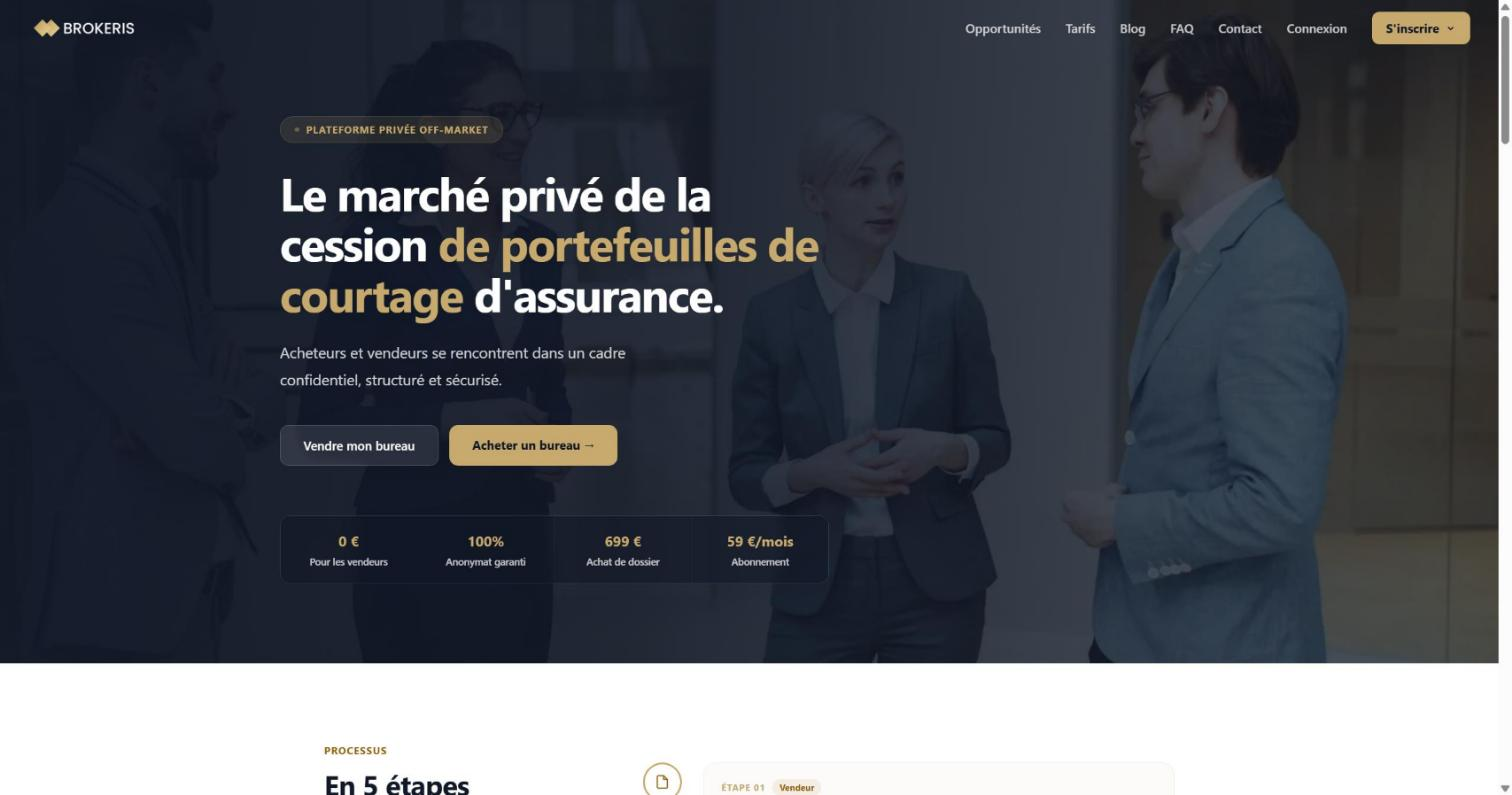
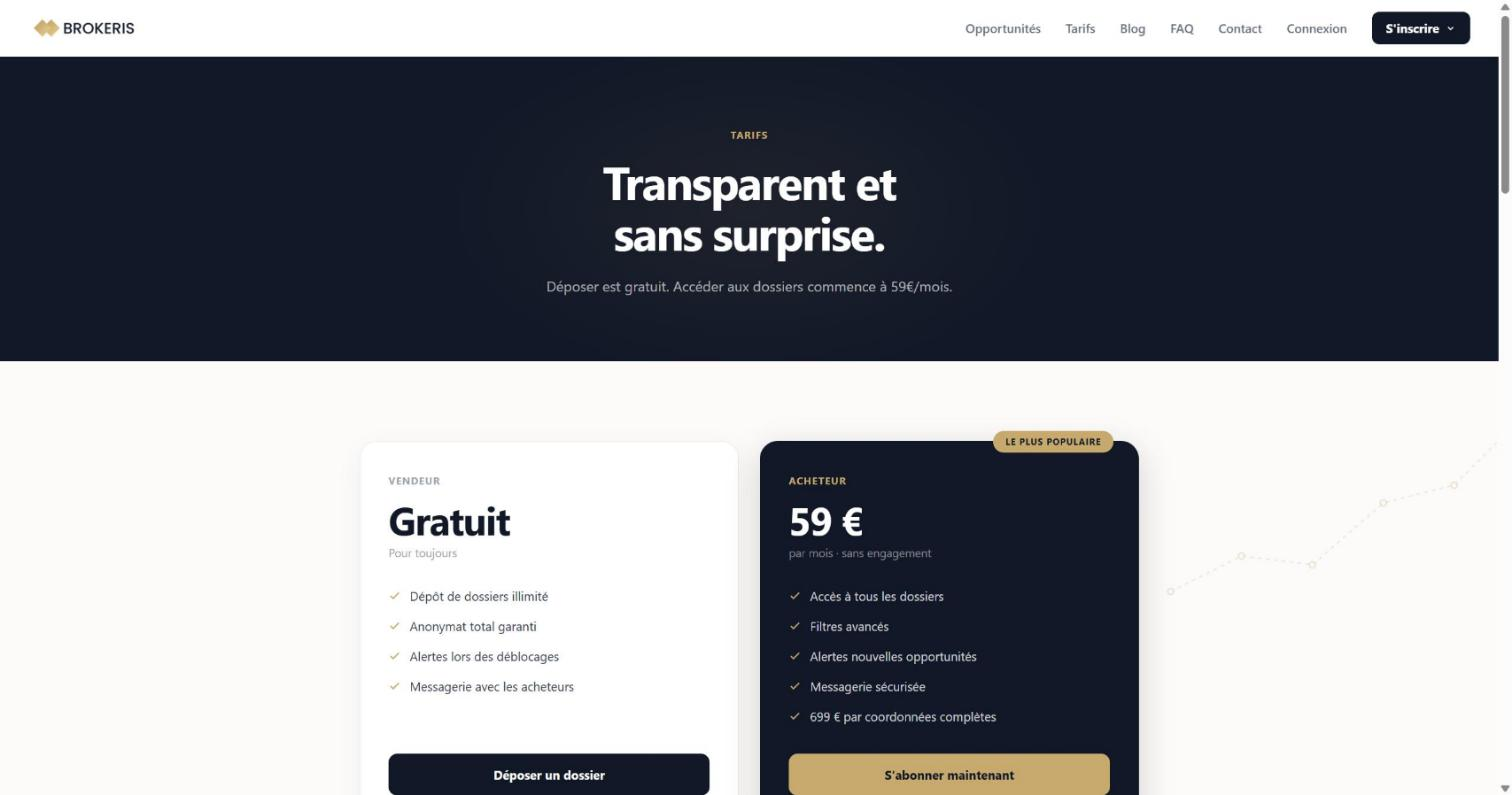
Varie les captures, cadre les fenêtres juste, et corrige le mobile
Captures
- Les fenêtres imposaient un rapport 16/10 à des images en 1,90 : les
  côtés étaient rognés et le logo de chaque site coupé. Le cadre prend
  désormais le rapport de la capture, en `object-contain`.
- Remplace les huit pages d'accueil par des vues qui montrent le produit :
  le listing filtrable de Fiderio avec ses dossiers verrouillés, la grille
  tarifaire de Brokeris, le tableau de bord d'OnShare, la recherche
  d'offres de Skillio, le calculateur de rentabilité de BuyMonth, les
  réalisations de Côté BURO, les formules de MH Defense et la tarification
  par gabarit d'Elite Detail.
- Huit héros alignés se ressemblaient tous ; un tableau de bord et un
  calculateur disent ce que le produit fait.

Mobile
- Les panneaux bleu nuit passent pleine largeur sous 640 px. Les
  gouttières latérales et les coins arrondis, sur un écran étroit,
  donnaient l'impression d'une carte qui flotte sous la barre de
  navigation. Vérifié à 390 px : marge et rayon à zéro.
- Le menu mobile replie ses destinations. Les dix-huit pages d'intention
  affichées d'un bloc noyaient les cinq entrées principales, qui sont ce
  qu'on vient chercher dans un menu. Le libellé reste un lien ; seul le
  chevron déplie, et une seule section s'ouvre à la fois.

diff --git a/prisma/seed-data/covers.ts b/prisma/seed-data/covers.ts
@@ -12,64 +12,75 @@
  *
  * Toutes ont été prises au même cadrage, 1512 × 795, pour que les fenêtres
  * de navigateur du portfolio s'alignent les unes avec les autres.
+ *
+ * Aucune ne montre une page d'accueil : un listing filtrable, une grille
+ * tarifaire, un tableau de bord ou un calculateur disent ce que le produit
+ * fait, là où huit héros alignés se ressemblent tous.
  */
 export const covers = [
   {
     projectKey: "fiderio",
     file: "fiderio.jpg",
-    altFr: "Page d'accueil de Fiderio : le marché privé de la cession de fiduciaires",
-    altEn: "Fiderio homepage: the private marketplace for selling accountancy firms",
-    altEs: "Portada de Fiderio: el mercado privado de cesión de asesorías",
+    altFr:
+      "Page Opportunités de Fiderio : dossiers de cession anonymisés, filtres par province et détails verrouillés",
+    altEn: "Fiderio Opportunities page: anonymised sale files, province filters and locked details",
+    altEs: "Página de Oportunidades de Fiderio: expedientes de cesión anonimizados, filtros por provincia y detalles bloqueados",
   },
   {
     projectKey: "brokeris",
     file: "brokeris.jpg",
     altFr:
-      "Page d'accueil de Brokeris : le marché privé de la cession de portefeuilles de courtage",
-    altEn: "Brokeris homepage: the private marketplace for insurance brokerage portfolios",
-    altEs: "Portada de Brokeris: el mercado privado de cesión de carteras de corretaje",
+      "Page Tarifs de Brokeris : dépôt gratuit pour les vendeurs, accès acheteur à 59 € par mois",
+    altEn: "Brokeris pricing page: free listing for sellers, buyer access at €59 a month",
+    altEs: "Página de tarifas de Brokeris: publicación gratuita para vendedores, acceso de comprador a 59 € al mes",
   },
   {
     projectKey: "onshare",
     file: "onshare.jpg",
-    altFr: "Page d'accueil d'OnShare : le réseau qui connecte les agences immobilières",
-    altEn: "OnShare homepage: the network connecting estate agencies",
-    altEs: "Portada de OnShare: la red que conecta las agencias inmobiliarias",
+    altFr:
+      "Tableau de bord d'OnShare : biens et acheteurs de l'agence, catalogue du réseau et évolution du portefeuille",
+    altEn: "OnShare dashboard: the agency's properties and buyers, network catalogue and portfolio trend",
+    altEs: "Panel de OnShare: inmuebles y compradores de la agencia, catálogo de la red y evolución de la cartera",
   },
   {
     projectKey: "skillio",
     file: "skillio.jpg",
-    altFr: "Page d'accueil de Skillio : trouver un emploi en comptabilité en restant anonyme",
-    altEn: "Skillio homepage: finding an accountancy job while staying anonymous",
-    altEs: "Portada de Skillio: encontrar empleo en contabilidad permaneciendo anónimo",
+    altFr:
+      "Page Offres de Skillio : recherche d'emplois comptables avec filtres par localisation et temps de travail",
+    altEn: "Skillio jobs page: accountancy job search with location and working-time filters",
+    altEs: "Página de ofertas de Skillio: búsqueda de empleos contables con filtros por ubicación y jornada",
   },
   {
     projectKey: "buymonth",
     file: "buymonth.jpg",
-    altFr: "Page d'accueil de BuyMonth : présenter des biens immobiliers en mensualités",
-    altEn: "BuyMonth homepage: presenting properties as monthly payments",
-    altEs: "Portada de BuyMonth: presentar inmuebles en mensualidades",
+    altFr:
+      "Calculateur de rentabilité de BuyMonth : curseurs de paramétrage et seuil de rentabilité calculé en direct",
+    altEn: "BuyMonth profitability calculator: parameter sliders and a break-even figure computed live",
+    altEs: "Calculadora de rentabilidad de BuyMonth: controles de parámetros y umbral de rentabilidad calculado en directo",
   },
   {
     projectKey: "coteburo",
     file: "coteburo.jpg",
-    altFr: "Page d'accueil de Côté BURO : mobilier de bureau à Aix-en-Provence",
-    altEn: "Côté BURO homepage: office furniture in Aix-en-Provence",
-    altEs: "Portada de Côté BURO: mobiliario de oficina en Aix-en-Provence",
+    altFr:
+      "Page Réalisations de Côté BURO : aménagements de bureaux livrés clés en main en région PACA",
+    altEn: "Côté BURO projects page: turnkey office fit-outs delivered across the PACA region",
+    altEs: "Página de proyectos de Côté BURO: equipamientos de oficina llave en mano en la región PACA",
   },
   {
     projectKey: "mh-defense",
     file: "mh-defense.jpg",
-    altFr: "Page d'accueil de MH Defense : cours de self-défense féminine à Sarrians",
-    altEn: "MH Defense homepage: women's self-defence classes in Sarrians",
-    altEs: "Portada de MH Defense: clases de defensa personal femenina en Sarrians",
+    altFr:
+      "Page Formules de MH Defense : trois abonnements et bascule entre tarif mensuel et séance à l'unité",
+    altEn: "MH Defense plans page: three memberships and a toggle between monthly and per-session pricing",
+    altEs: "Página de planes de MH Defense: tres suscripciones y conmutador entre tarifa mensual y sesión suelta",
   },
   {
     projectKey: "elite-detail-tampa",
     file: "elite-detail-tampa.jpg",
-    altFr: "Page d'accueil d'Elite Detail : detailing automobile à domicile à Tampa",
-    altEn: "Elite Detail homepage: mobile car detailing in Tampa",
-    altEs: "Portada de Elite Detail: detailing de automóviles a domicilio en Tampa",
+    altFr:
+      "Page Tarifs d'Elite Detail : prix fixes par gabarit de véhicule et par type de prestation",
+    altEn: "Elite Detail pricing page: flat prices by vehicle size and service type",
+    altEs: "Página de tarifas de Elite Detail: precios fijos por tamaño de vehículo y tipo de servicio",
   },
 ];
 

diff --git a/src/components/site/site-header.tsx b/src/components/site/site-header.tsx
@@ -295,12 +295,16 @@ function MobileMenu({
   nav: NavData;
   t: (key: string) => string;
 }) {
+  const [expanded, setExpanded] = useState<NavKey | null>(null);
+
   if (!open) return null;
 
   /**
-   * Sous-liste en pastilles sous l'entrée concernée. Les pages d'intention
-   * sont ainsi atteignables en un geste depuis le mobile, sans accordéon à
-   * déplier — et elles reçoivent un lien depuis chaque page du site.
+   * Destinations repliées sous l'entrée concernée.
+   *
+   * Une seule section est ouverte à la fois : sur un écran de téléphone, les
+   * dix-huit pages d'intention affichées d'un bloc noyaient les cinq entrées
+   * principales, qui sont ce qu'on vient chercher dans un menu.
    */
   const subGroups = (menu?: MegaKey) => {
     if (menu === "build") {
@@ -341,25 +345,50 @@ function MobileMenu({
                 className="animate-[menu-item_0.6s_var(--ease-out-expo)_both] border-b border-white/10"
                 style={{ animationDelay: `${0.06 + index * 0.06}s` }}
               >
-                <Link
-                  href={link.href}
-                  onClick={onNavigate}
-                  className="group flex items-baseline gap-4 py-5 text-white"
-                >
-                  <span className="font-display text-xs font-bold text-white/35 tabular-nums">
-                    0{index + 1}
-                  </span>
-                  <span className="font-display text-[clamp(1.9rem,9vw,3.1rem)] leading-[1.05] font-extrabold tracking-[-0.045em] transition-colors duration-300 group-hover:text-aegean-200">
-                    {t(link.key)}
-                  </span>
-                  <ArrowUpRight
-                    aria-hidden
-                    className="ml-auto size-6 self-center text-white/35 transition-[transform,color] duration-500 ease-[var(--ease-out-expo)] group-hover:translate-x-1 group-hover:-translate-y-1 group-hover:text-white"
-                  />
-                </Link>
+                <div className="flex items-center gap-3">
+                  <Link
+                    href={link.href}
+                    onClick={onNavigate}
+                    className="group flex flex-1 items-baseline gap-4 py-5 text-white"
+                  >
+                    <span className="font-display text-xs font-bold text-white/35 tabular-nums">
+                      0{index + 1}
+                    </span>
+                    <span className="font-display text-[clamp(1.75rem,8vw,2.75rem)] leading-[1.05] font-extrabold tracking-[-0.045em] transition-colors duration-300 group-hover:text-aegean-200">
+                      {t(link.key)}
+                    </span>
+                    {groups.length === 0 ? (
+                      <ArrowUpRight
+                        aria-hidden
+                        className="ml-auto size-6 self-center text-white/35 transition-[transform,color] duration-500 ease-[var(--ease-out-expo)] group-hover:translate-x-1 group-hover:-translate-y-1 group-hover:text-white"
+                      />
+                    ) : null}
+                  </Link>
 
-                {groups.length > 0 ? (
-                  <ul className="mb-5 flex flex-wrap gap-1.5">
+                  {/* Le libellé reste un lien ; seul le chevron déplie. Afficher
+                      les dix-huit destinations d'emblée rendait le menu
+                      illisible. */}
+                  {groups.length > 0 ? (
+                    <button
+                      type="button"
+                      onClick={() => setExpanded(expanded === link.key ? null : link.key)}
+                      aria-expanded={expanded === link.key}
+                      aria-label={t(link.key)}
+                      className="grid size-11 shrink-0 cursor-pointer place-items-center rounded-full bg-white/10 text-white transition-colors hover:bg-white/20"
+                    >
+                      <ChevronDown
+                        aria-hidden
+                        className={cn(
+                          "size-5 transition-transform duration-300",
+                          expanded === link.key && "rotate-180",
+                        )}
+                      />
+                    </button>
+                  ) : null}
+                </div>
+
+                {groups.length > 0 && expanded === link.key ? (
+                  <ul className="mb-5 grid animate-[menu-open_0.25s_var(--ease-out-expo)_both] gap-px overflow-hidden rounded-field bg-white/10">
                     {groups.flatMap((group) =>
                       group.entries.map((entry) => (
                         <li key={`${group.pathname}-${entry.slug}`}>
@@ -369,9 +398,10 @@ function MobileMenu({
                               params: { slug: entry.slug },
                             }}
                             onClick={onNavigate}
-                            className="block rounded-full bg-white/10 px-3.5 py-2 font-display text-[0.8125rem] font-semibold text-white/80 transition-colors hover:bg-white/20 hover:text-white"
+                            className="flex items-center justify-between gap-3 bg-aegean-950/40 px-4 py-3.5 font-display text-[0.9375rem] font-semibold text-white/80 transition-colors hover:bg-aegean-950/10 hover:text-white"
                           >
                             {entry.title}
+                            <ArrowUpRight aria-hidden className="size-4 shrink-0 text-white/30" />
                           </Link>
                         </li>
                       )),

diff --git a/src/components/site/screen-mockup.tsx b/src/components/site/screen-mockup.tsx
@@ -40,13 +40,18 @@ export function BrowserMockup({
       </div>
 
       {cover ? (
-        <div className="relative aspect-16/10 w-full">
+        // Le cadre prend le rapport de la capture elle-même : à ratio imposé,
+        // `object-cover` rognait les côtés et coupait le logo du site.
+        <div
+          className="relative w-full"
+          style={{ aspectRatio: `${cover.width} / ${cover.height}` }}
+        >
           <Image
-            src={optimized(cover.url, { width: 900 })}
+            src={optimized(cover.url, { width: 1200 })}
             alt={cover.alt}
             fill
             sizes="(max-width: 880px) 100vw, 50vw"
-            className="object-cover object-top"
+            className="object-contain object-top"
           />
         </div>
       ) : (

diff --git a/src/components/site/sections/hero.tsx b/src/components/site/sections/hero.tsx
@@ -10,7 +10,7 @@ export async function Hero() {
   const t = await getTranslations("home.hero");
 
   return (
-    <header className="night-panel relative mx-(--page-gutter) flex min-h-[min(92vh,880px)] items-end overflow-hidden rounded-panel px-6 pt-[clamp(110px,16vh,170px)] pb-[clamp(26px,4vh,44px)] sm:px-10 lg:px-16">
+    <header className="night-panel relative flex min-h-[min(92vh,880px)] items-end overflow-hidden px-6 sm:mx-(--page-gutter) sm:rounded-panel pt-[clamp(110px,16vh,170px)] pb-[clamp(26px,4vh,44px)] sm:px-10 lg:px-16">
       <Orbs />
       <Arches />
       <span aria-hidden className="grain-layer" />

diff --git a/src/components/site/sections/cta-panel.tsx b/src/components/site/sections/cta-panel.tsx
@@ -11,7 +11,7 @@ export async function CtaPanel() {
   const t = await getTranslations("home.cta");
 
   return (
-    <section className="night-panel relative mx-(--page-gutter) mb-(--page-gutter) overflow-hidden rounded-panel px-6 py-[clamp(3rem,8vh,6rem)] text-center shadow-lift sm:px-12">
+    <section className="night-panel relative overflow-hidden px-6 sm:mx-(--page-gutter) sm:mb-(--page-gutter) sm:rounded-panel py-[clamp(3rem,8vh,6rem)] text-center shadow-lift sm:px-12">
       <Arches className="h-[55%] opacity-45" />
       <span aria-hidden className="grain-layer" />
 

diff --git a/src/app/(site)/[locale]/not-found.tsx b/src/app/(site)/[locale]/not-found.tsx
@@ -9,7 +9,7 @@ export default function NotFound() {
   const nav = useTranslations("common");
 
   return (
-    <section className="night-panel relative mx-(--page-gutter) my-(--page-gutter) overflow-hidden rounded-panel px-6 py-[clamp(6rem,18vh,10rem)] text-center sm:px-12">
+    <section className="night-panel relative overflow-hidden px-6 sm:mx-(--page-gutter) sm:my-(--page-gutter) sm:rounded-panel py-[clamp(6rem,18vh,10rem)] text-center sm:px-12">
       <Orbs />
       <Arches className="h-[50%] opacity-40" />
       <span aria-hidden className="grain-layer" />

diff --git a/src/components/site/page-hero.tsx b/src/components/site/page-hero.tsx
@@ -55,7 +55,7 @@ export function PageHero({
   const scale = titleScale(title);
 
   return (
-    <header className="night-panel relative mx-(--page-gutter) overflow-hidden rounded-panel px-6 pt-[clamp(8rem,15vh,11rem)] pb-[clamp(2.5rem,6vh,4rem)] sm:px-10 lg:px-16">
+    <header className="night-panel relative overflow-hidden px-6 sm:mx-(--page-gutter) sm:rounded-panel pt-[clamp(8rem,15vh,11rem)] pb-[clamp(2.5rem,6vh,4rem)] sm:px-10 lg:px-16">
       <Orbs />
       <Arches className="h-[50%] opacity-40" />
       <span aria-hidden className="grain-layer" />

diff --git a/src/components/site/sections/stats-panel.tsx b/src/components/site/sections/stats-panel.tsx
@@ -20,7 +20,7 @@ export async function StatsPanel() {
   return (
     <Reveal
       as="section"
-      className="night-panel relative mx-(--page-gutter) overflow-hidden rounded-panel p-8 shadow-lift sm:p-12 lg:p-16"
+      className="night-panel relative overflow-hidden p-8 shadow-lift sm:mx-(--page-gutter) sm:rounded-panel sm:p-12 lg:p-16"
     >
       <Arches count={10} className="h-[70%] opacity-40" />
       <div className="relative z-1 grid gap-4 sm:grid-cols-2 lg:grid-cols-4">
